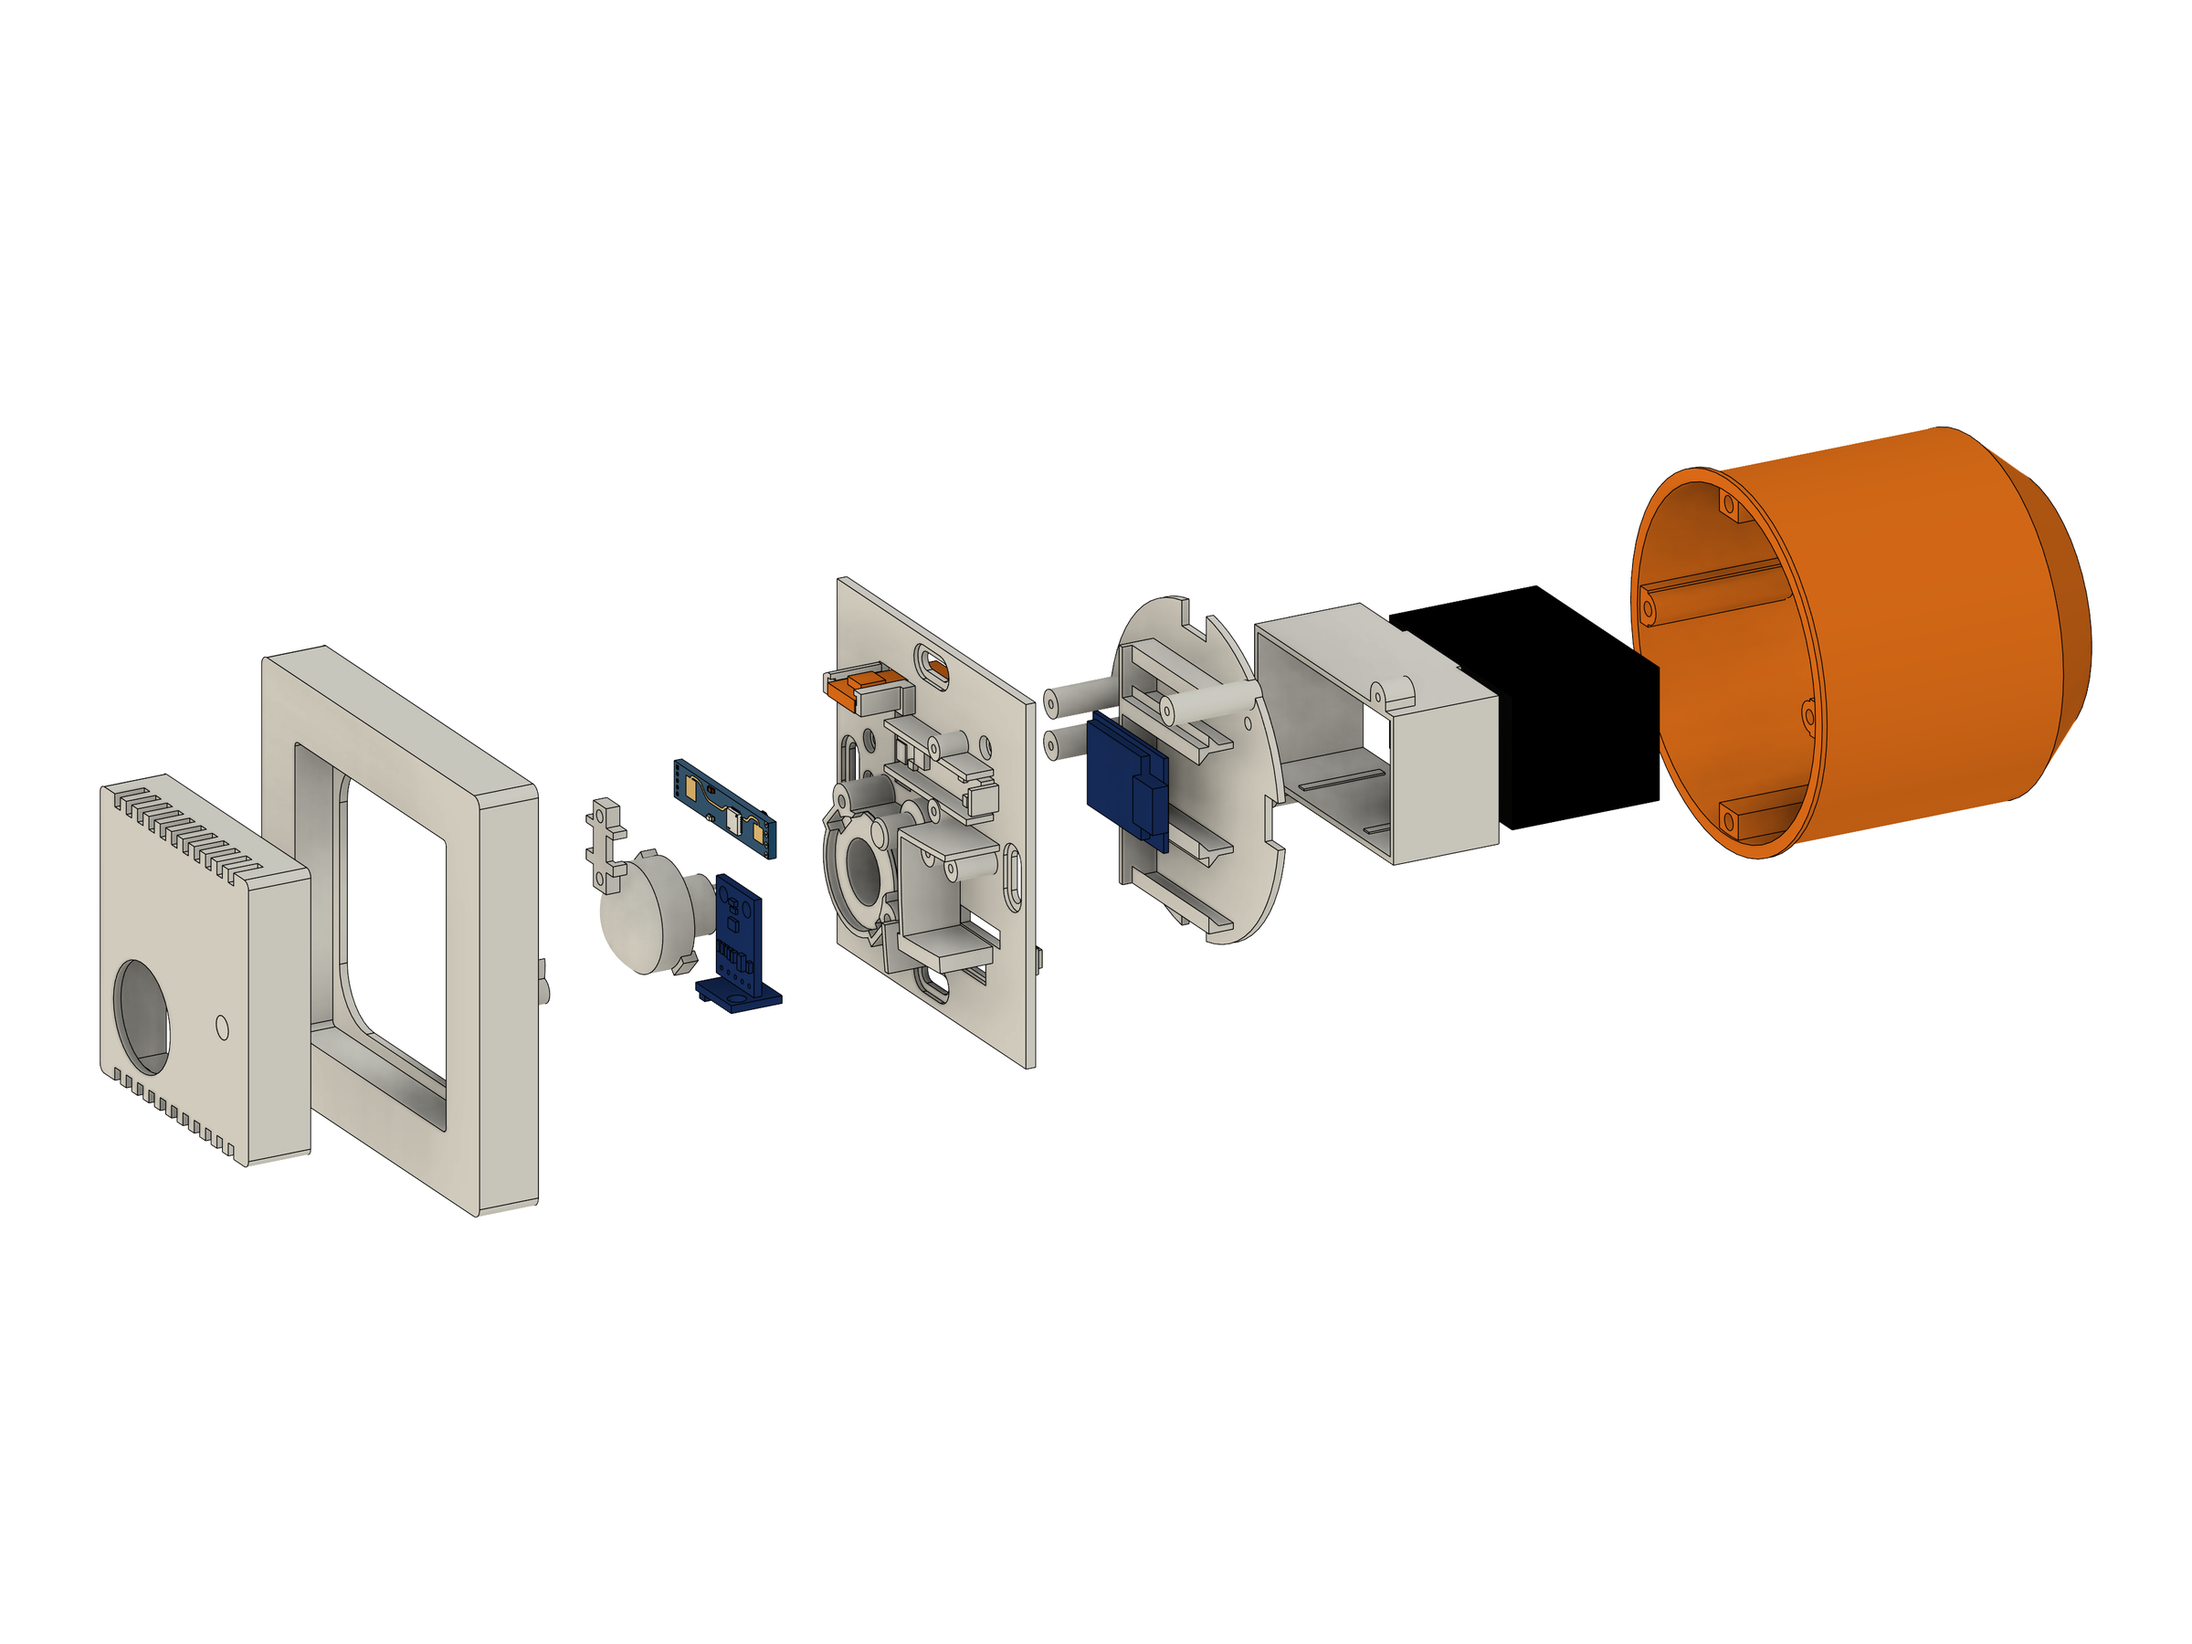
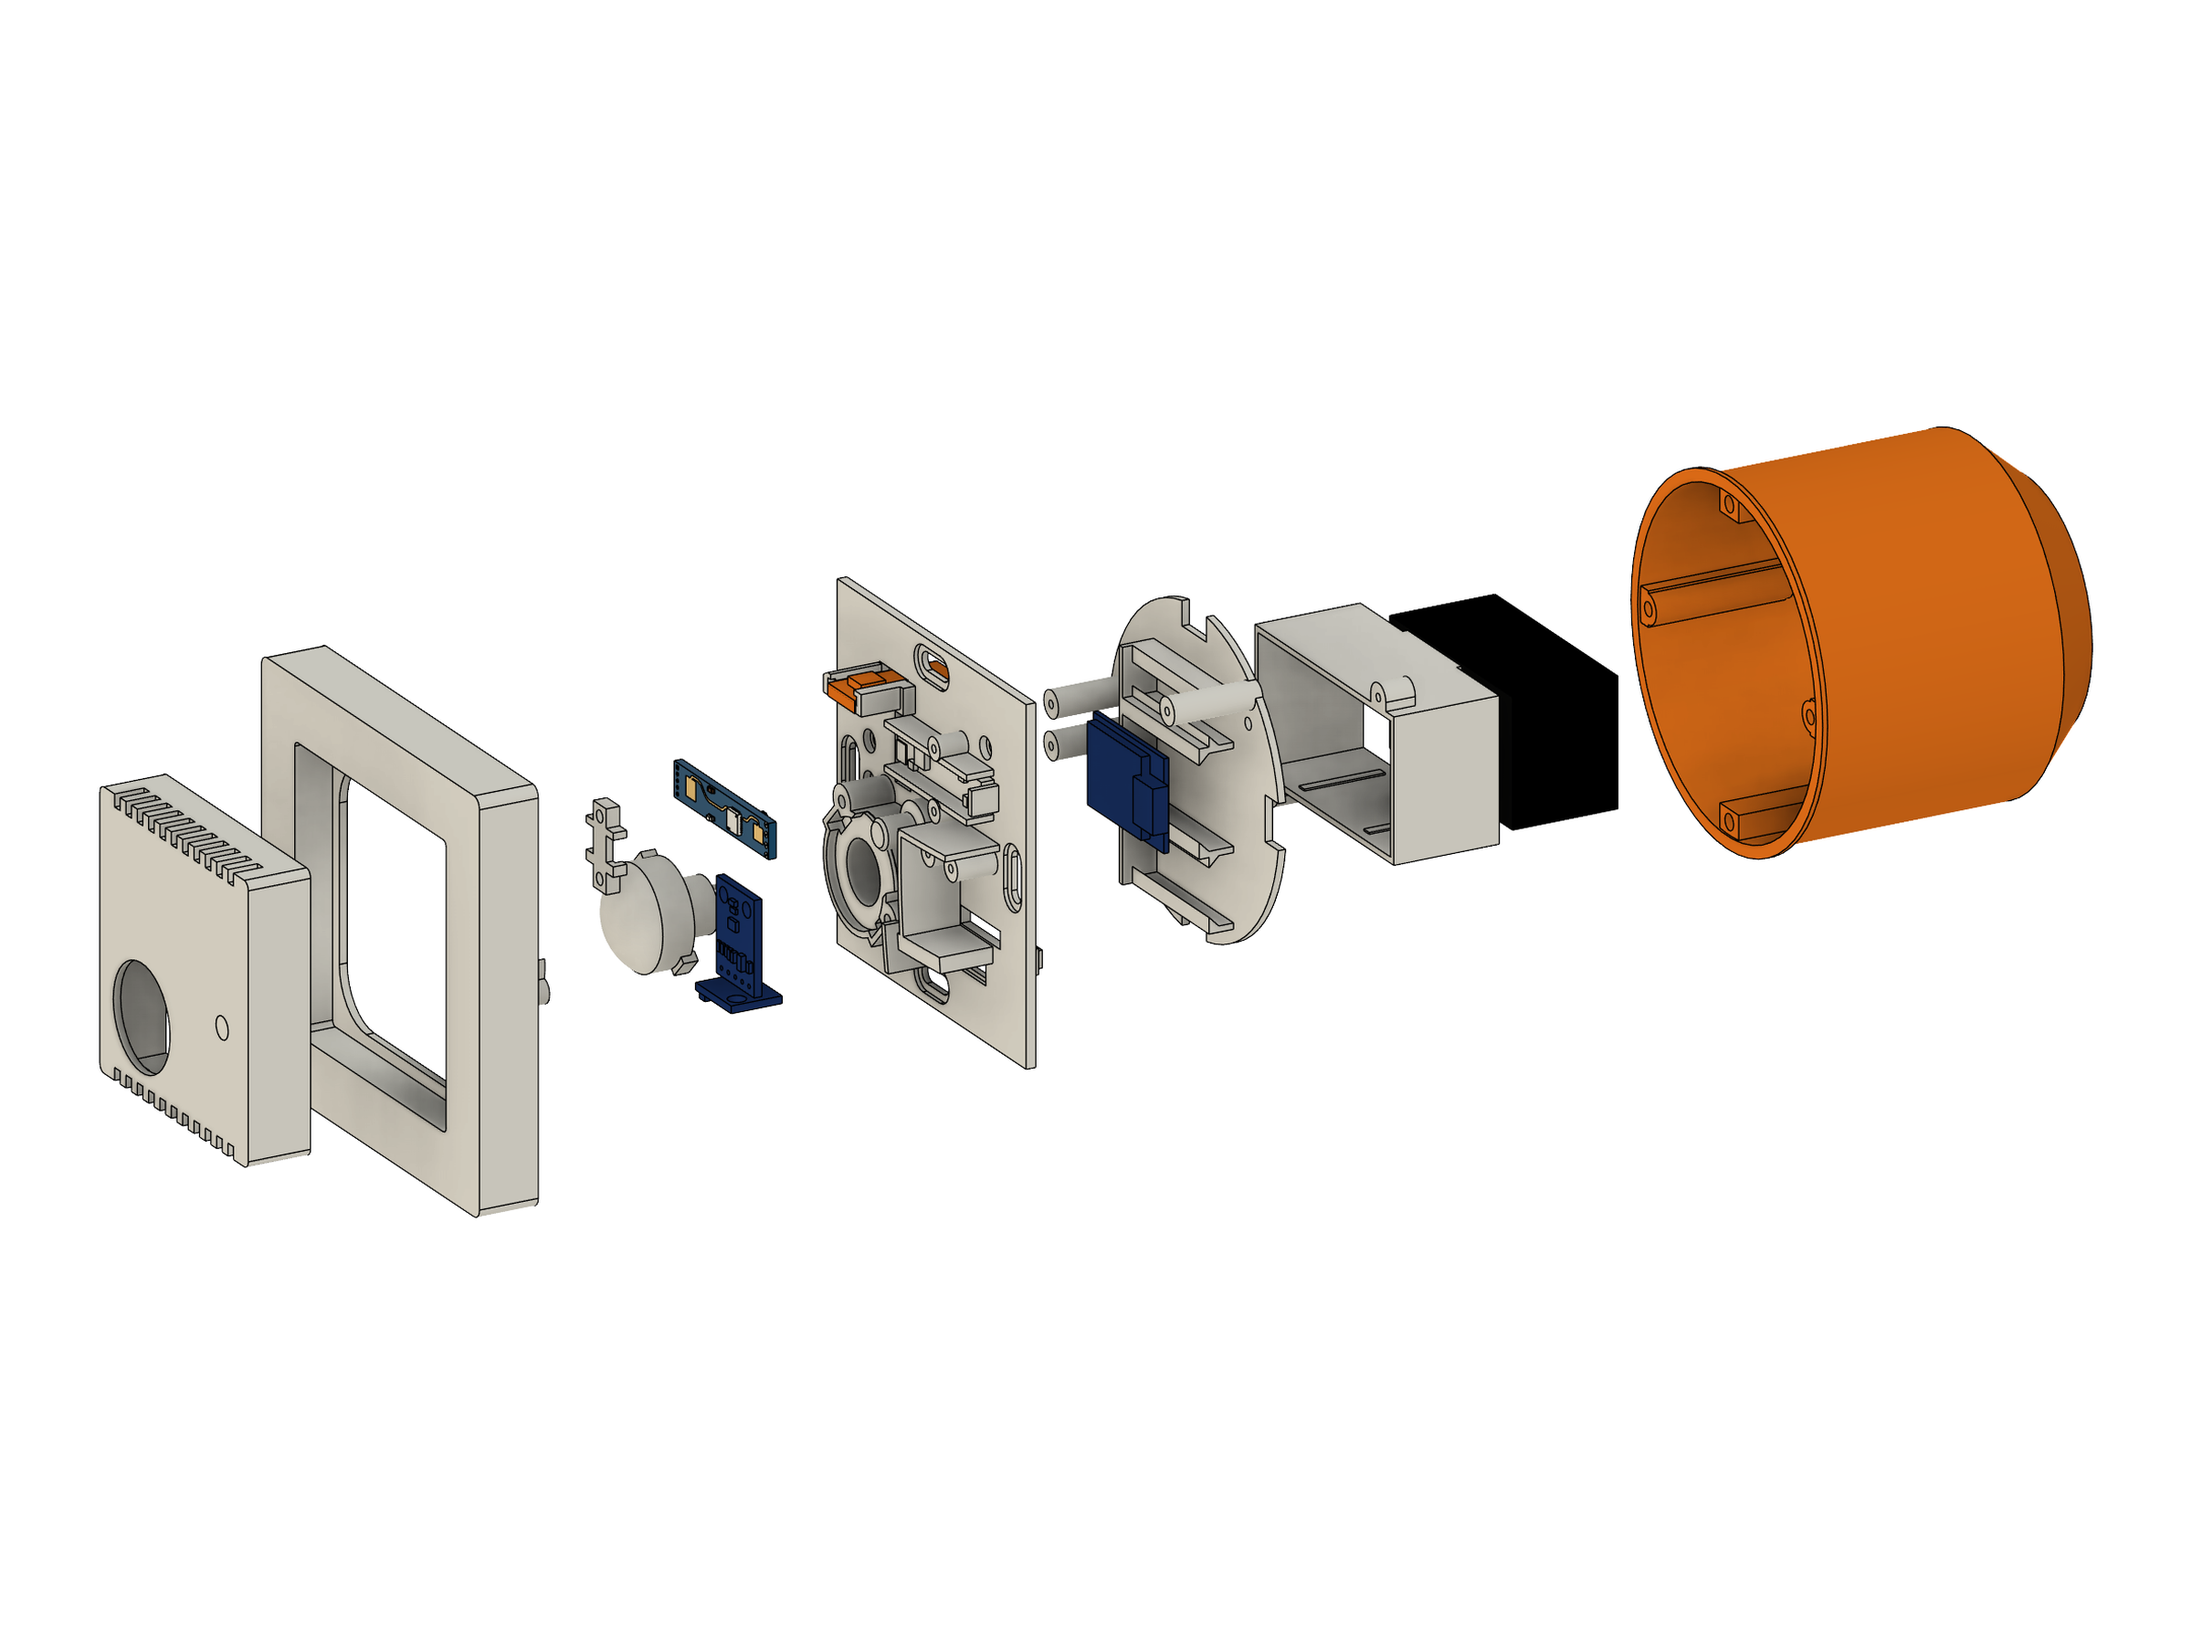
Mount the PIR before soldering it, fix part 2 renders
- PIR wires are soldered to the boards first, the PIR is pushed into
  part 1 and screwed in before its wires are soldered to it
- Renders of part 2 and the exploded view without the clearance body of
  the power supply, power supply and ESP in their colors
- Drop the V2.1 LD2410 photo, the sensor looks different now

Claude-Session: https://claude.ai/code/session_01AKeckaUjEpQSGav6KFAgd1

diff --git a/FlushMount/instructions/body.md b/FlushMount/instructions/body.md
@@ -166,7 +166,7 @@ These are the lengths I cut (in mm, including 3.5 mm stripped on each end). The 
 
 ### 🔢 Assembly Instructions
 
-I built it from the back to the front: first the power supply on part 2, then the wiring harness, and part 1 with the sensors at the very end. The PIR is soldered last, because its wires have to go through the PIR socket of part 1 and the lens does not fit through.
+I built it from the back to the front: first the power supply on part 2, then the wiring harness, and part 1 with the sensors at the very end. The PIR is soldered to its wires last: it has to be pushed into part 1 from the front and screwed in first, because the lens does not fit through the PIR socket.
 
 1. Cut all wires to length (see the table above) and tin the wire ends.
 1. **Power supply:** solder the mains wires to the AC pins of the IRM-10-5 and insulate them with heat shrink. Solder the white and black 5V wires to +V and −V.
@@ -178,22 +178,19 @@ I built it from the back to the front: first the power supply on part 2, then th
 
 1. Solder **one end** of the wires to the **temperature sensor**, the **brightness sensor**, the **presence sensor cable** and the input end of the **LED segment**.
 
-    | Presence Sensor | Brightness Sensor |
-    | ---- | ---- |
-    | <img src="images/LD2410.jpg" height="250" alt="Presence Sensor"> | <img src="images/BH1750.jpg" height="250" alt="Brightness Sensor"> |
+    <img src="images/BH1750.jpg" height="250" alt="Brightness sensor with its wires">
 
-1. Solder the **other ends** to the **distribution boards** and the **ESP** according to the wiring diagram and the tables above, together with the 100 µF capacitor (+ to 3V3). Leave out the PIR for now.
-1. **Prepare the PIR:** solder the 100 nF capacitor directly to VDD and GND of the PIR and solder its three wires to the PIR.
+1. Solder the **other ends** to the **distribution boards** and the **ESP** according to the wiring diagram and the tables above, together with the 100 µF capacitor (+ to 3V3). Solder the three **PIR wires** only to the 3.3V board and GPIO7 for now, their other end stays free.
+1. **Prepare the PIR:** solder the 100 nF capacitor directly to VDD and GND of the PIR.
 1. Solder the 5V wires of the **power supply** to the 5V board.
 1. Use a **multimeter** to verify that solder joints of different colors do not bridge. Any short can damage components and may cause smoke or even fire.
 1. Slide the ESP (components facing front, USB-C to the right) and both distribution boards from the right into the chambers of part 2.
 
     <img src="images/WiringHarness.jpg" height="400" alt="ESP and distribution boards in part 2">
 
-1. **PIR:** thread the PIR wires from the front through the hole of the PIR socket in **part 1**, then solder VDD and GND to the 3.3V board and OUT to GPIO7 of the ESP. Check these joints with the multimeter as well.
+1. **PIR:** push the PIR from the front into its socket in **part 1** so the two lugs sit in their pockets and screw the **clamp ring (part 7)** with 2x M1.7x6mm from the back. Only then solder the free ends of the PIR wires to VDD, GND and OUT on the back of the PIR and check these joints with the multimeter as well.
 1. Now it's time to check whether all the soldering has worked out. Power the ESP via USB-C, flash the software (see the software section), verify that all sensors are detected and reporting, then return here to complete assembly. **Never connect USB and mains at the same time.**
-1. Hold part 1 about 4–5 cm in front of part 2, push the sensors and the LED from the back through their openings in part 1 and fasten them:
-    - **PIR:** put it into its socket so the two lugs sit in their pockets, then screw the **clamp ring (part 7)** with 2x M1.7x6mm from the back.
+1. Hold part 1 about 4–5 cm in front of part 2, push the other sensors and the LED from the back through their openings in part 1 and fasten them:
     - **Presence sensor:** lay the LD2410B into its seat, the plug end goes through the opening in the flange. Screw the **bracket (part 6)** over it with 2x M1.7x6mm.
     - **Brightness sensor:** screw the BH1750 onto its domes (2x M2x3mm).
     - **Temperature sensor:** push the board against the back wall of its chamber, press the **SHT plug (part 10)** into the slot next to the wires (its left side is open for them), then screw the SHT41 (1x M2x3mm).
